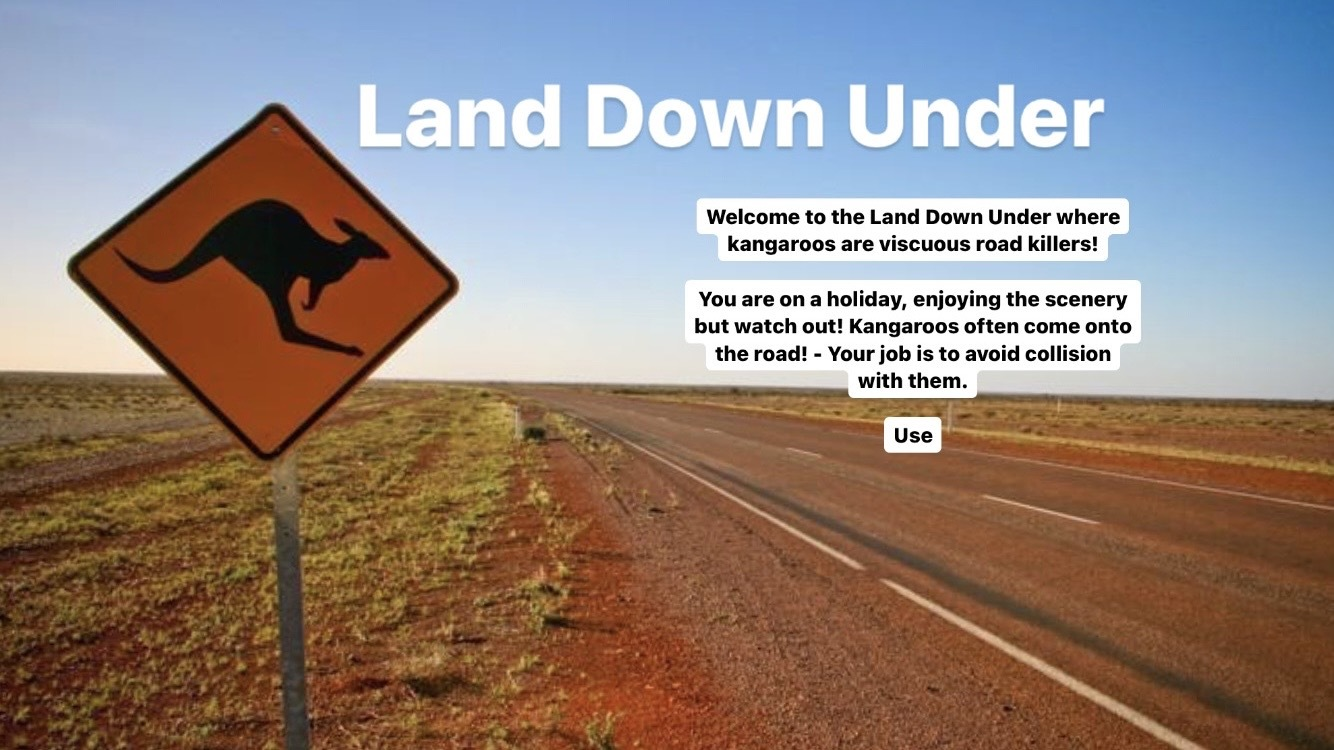
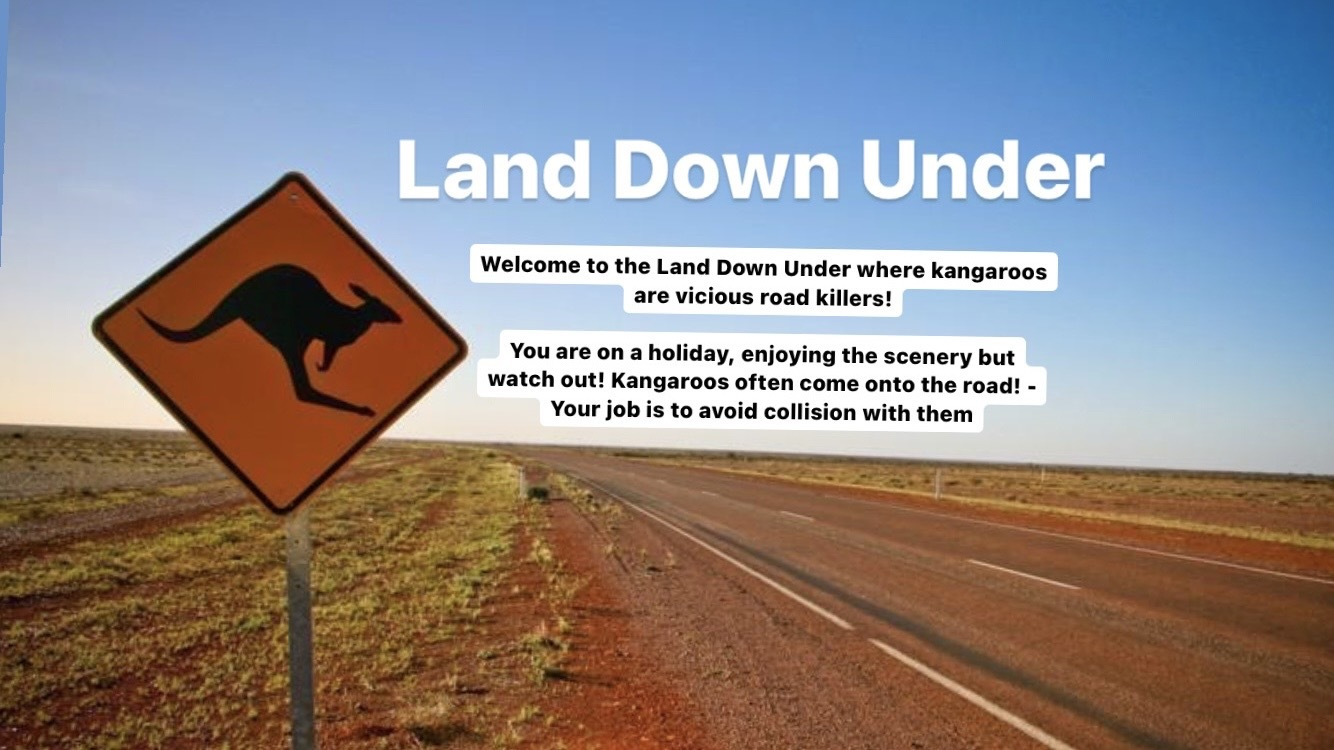
HTML done

diff --git a/HTML/index.html b/HTML/index.html
@@ -3,10 +3,32 @@
 <head>
     <meta charset="UTF-8">
     <meta name="viewport" content="width=device-width, initial-scale=1.0">
-    <title>Land Downunder Rancing Game
-</title>
+    <link rel="stylesheet" href="../CSS/styles.css">
+    <title>Land Downunder Rancing Game</title>
 </head>
 <body>
-    
+    <div id="startContainer">
+        <h3 id="titleStartPage">Land Downunder Rancing Game</h3>
+        <img id="imgIntro" src="../Images/backgroundStarPage.jpg" alt="Background Start Image">
+        <section id="initialText">
+            <p>Welcome to the Land Down Under where kangaroos are vicious road killers!
+            You are on a holiday, enjoying the scenery but watch out! Kangaroos often come onto the road! - Your job is to avoid collision with them Use the arrow keys to control your car.</p>
+        </section>
+        <button type="button" id="startBtn">Start</button>
+    </div>
+    <div id="game-container">
+        <div>
+            <h2>Stats</h2>
+            <p>Record: 0</p>
+            <p>Score: <span id="score">0</span></p>
+            <p>Lives: <span id="lives">3</span></p>
+        </div>
+        <div id="game-screen"></div>
+    </div>
+    <div id="game-end">
+        <img src="../Images/end-game.jpeg" alt="Please try in another season" class="endGameImage" />
+        <h1>Game Over</h1>
+        <button id="restartButton">Restart</button>
+    </div>
 </body>
 </html>

diff --git a/CSS/styles.css b/CSS/styles.css
@@ -1,0 +1,39 @@
+body{
+    width: 100%;
+    height: auto;
+}
+
+#titleStartPage{
+    text-align: center;
+    font-size: 24px;
+    font-family: Lucidatypewriter, monospace;
+}
+
+#startContainer, #game-container, #game-end{
+    display: flex;
+    flex-direction: column;
+    justify-content: center;
+    align-items: center;
+} 
+
+#imgIntro, .endGameImage{
+    width: 40%;
+    height: auto;
+    border-radius: 5px;
+}
+
+#startBtn, #restartButton{
+    width: 135px;
+    height: 35px;
+    border-radius: 5px;
+    border: 1px solid orangered;
+    background-color: orangered;
+    color: #fff;
+    font-size: 15px;
+    margin-top: 25px;
+}
+
+#initialText{
+    width: 40%;
+    text-align: justify;
+}
